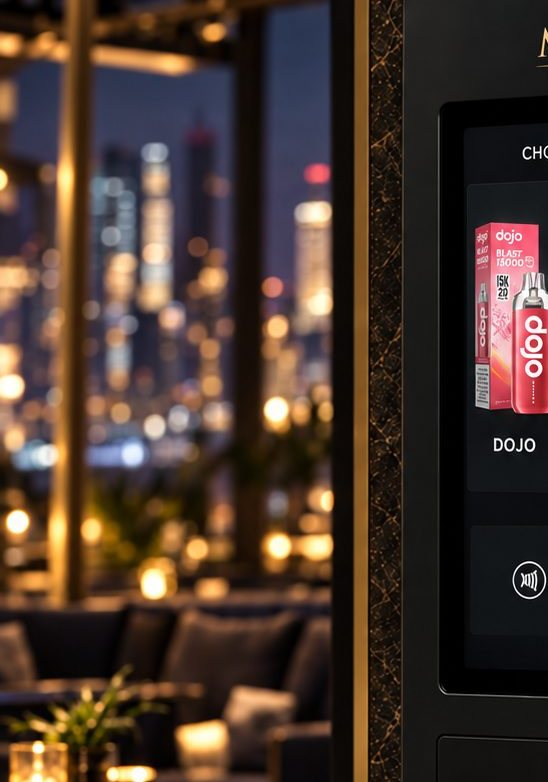
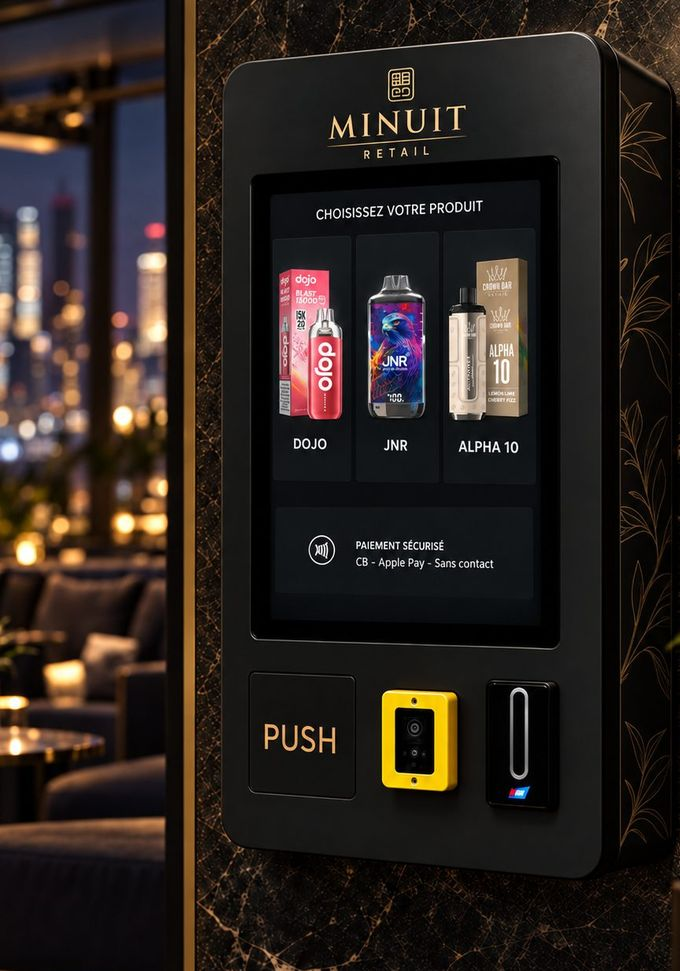
Partie 1 : recadre l'image manifeste sur la machine + délai de réponse 24 h
- assets/manifesto.jpg recadré depuis hero-lounge : le distributeur Minuit
  Retail (logo, écran de sélection, produits, paiement) est désormais
  entièrement visible, avec le lounge et la skyline en ambiance.
- Ajuste l'aspect-ratio du cadre (680/971) et object-position pour éviter
  tout rognage de la machine.
- Remplace « 48 h / 48 heures » par « 24 h / 24 heures » (accueil,
  section partenariat, messages de confirmation du formulaire).

Claude-Session: https://claude.ai/code/session_01AdZ26dFqmAyvpeNijno6DE

diff --git a/index.html b/index.html
@@ -293,7 +293,7 @@
           <p class="foot reveal">Un distributeur pensé pour l'univers nocturne : discret, autonome, connecté. Il n'occupe presque aucun espace, ne demande aucune gestion, et prolonge le service de l'établissement là où il s'arrêtait.</p>
         </div>
         <figure class="manifesto-media reveal-img">
-          <img src="assets/manifesto.jpg" width="548" height="782" alt="Ambiance de nuit : skyline illuminée, lounge feutré et distributeur Minuit Retail allumé." loading="lazy" />
+          <img src="assets/manifesto.jpg" width="680" height="971" alt="Distributeur Minuit Retail allumé dans un lounge, écran de sélection éclairé face à une skyline nocturne." loading="lazy" />
           <span class="manifesto-tag" aria-hidden="true">Minuit passé</span>
         </figure>
       </div>
@@ -494,7 +494,7 @@
         <div>
           <p class="kicker"><span class="kicker-index">08</span> Questions</p>
           <h2 class="h-serif reveal" style="margin-top:22px;">Ce qu'un exploitant se demande.</h2>
-          <p class="lead reveal" style="margin-top:22px; color:var(--text-muted); max-width:34ch;">Une réponse manque ? Écrivez-nous, nous revenons vers vous sous 48&nbsp;h.</p>
+          <p class="lead reveal" style="margin-top:22px; color:var(--text-muted); max-width:34ch;">Une réponse manque ? Écrivez-nous, nous revenons vers vous sous 24&nbsp;h.</p>
         </div>
         <div class="faq-list reveal">
           <details class="faq-item"><summary><span>Est-ce que ça me coûte quelque chose&nbsp;?</span><span class="faq-sign" aria-hidden="true">+</span></summary><div class="faq-answer">Non. Zéro euro d'investissement, zéro gestion quotidienne. Machine, stock, maintenance et assurance sont à notre charge. Vous percevez une redevance sur chaque vente.</div></details>
@@ -562,13 +562,13 @@
         <div class="contact-copy">
           <p class="kicker"><span class="kicker-index">11</span> Partenariat</p>
           <h2 class="h-serif reveal">Parlons de votre emplacement.</h2>
-          <p class="reveal">Laissez-nous vos coordonnées. Nous revenons vers vous sous 48&nbsp;h pour organiser une visite, sans engagement.</p>
+          <p class="reveal">Laissez-nous vos coordonnées. Nous revenons vers vous sous 24&nbsp;h pour organiser une visite, sans engagement.</p>
           <dl class="info reveal">
             <div><dt>Société</dt><dd>Minuit Retail SAS</dd></div>
             <div><dt>Zone</dt><dd>Provence-Alpes-Côte d'Azur</dd></div>
             <div><dt>Contact</dt><dd><a href="mailto:contact@minuitretail.fr">contact@minuitretail.fr</a></dd></div>
             <div><dt>WhatsApp</dt><dd><a href="https://wa.me/33782809221" target="_blank" rel="noopener">+33 7 82 80 92 21</a></dd></div>
-            <div><dt>Délai de réponse</dt><dd>48 heures</dd></div>
+            <div><dt>Délai de réponse</dt><dd>24 heures</dd></div>
           </dl>
         </div>
 

diff --git a/css/styles.css b/css/styles.css
@@ -237,8 +237,8 @@ ul, ol { margin: 0; padding: 0; list-style: none; }
 .manifesto .idx { font-family: var(--ff-mono); font-size: 11px; letter-spacing: 0.2em; color: var(--text-dim); padding-top: 14px; align-self: start; }
 
 /* Image d'ambiance (nuit / lounge) — habille la colonne de droite sur desktop */
-.manifesto-media { position: relative; margin: 0; overflow: hidden; border-radius: 3px; aspect-ratio: 548 / 782; }
-.manifesto-media img { position: absolute; inset: 0; width: 100%; height: 100%; object-fit: cover; object-position: 50% 42%; filter: saturate(0.98) contrast(1.04) brightness(0.92); }
+.manifesto-media { position: relative; margin: 0; overflow: hidden; border-radius: 3px; aspect-ratio: 680 / 971; }
+.manifesto-media img { position: absolute; inset: 0; width: 100%; height: 100%; object-fit: cover; object-position: 50% center; filter: saturate(0.98) contrast(1.04) brightness(0.92); }
 .manifesto-media::after { content: ""; position: absolute; inset: 0; pointer-events: none; box-shadow: inset 0 0 0 1px var(--line); background: linear-gradient(180deg, transparent 55%, rgba(6,5,5,0.55)); }
 .manifesto-tag { position: absolute; left: 16px; bottom: 14px; z-index: 2; font-family: var(--ff-mono); font-size: 9.5px; letter-spacing: 0.18em; text-transform: uppercase; color: var(--gold); padding: 6px 12px; border: 1px solid var(--line-2); background: rgba(6,5,5,0.42); backdrop-filter: blur(4px); -webkit-backdrop-filter: blur(4px); }
 @media (max-width: 960px) {

diff --git a/js/script.js b/js/script.js
@@ -183,7 +183,7 @@
           .then(function (r) { if (!r.ok) throw new Error("HTTP " + r.status); })
           .then(function () {
             form.reset(); if (btn) { btn.disabled = false; btn.classList.remove("is-loading"); }
-            showStatus("ok", "Merci « " + etab + " » — votre demande a bien été envoyée. Nous revenons vers vous sous 48 h, par e-mail ou par téléphone.");
+            showStatus("ok", "Merci « " + etab + " » — votre demande a bien été envoyée. Nous revenons vers vous sous 24 h, par e-mail ou par téléphone.");
           })
           .catch(function () {
             if (btn) { btn.disabled = false; btn.classList.remove("is-loading"); }
@@ -196,7 +196,7 @@
       var body = "Établissement : " + etab + "\nContact : " + g("f-nom") + "\nType : " + typeLabel
         + "\nTéléphone : " + (g("f-tel") || "—") + "\nE-mail : " + g("f-email") + "\n\nMessage :\n" + (g("f-msg") || "—");
       window.location.href = "mailto:" + FORM_EMAIL + "?subject=" + encodeURIComponent("Demande de partenariat — " + etab) + "&body=" + encodeURIComponent(body);
-      showStatus("ok", "Merci — votre messagerie s'ouvre pour finaliser l'envoi. Nous revenons vers vous sous 48 h.");
+      showStatus("ok", "Merci — votre messagerie s'ouvre pour finaliser l'envoi. Nous revenons vers vous sous 24 h.");
     });
   }
 
